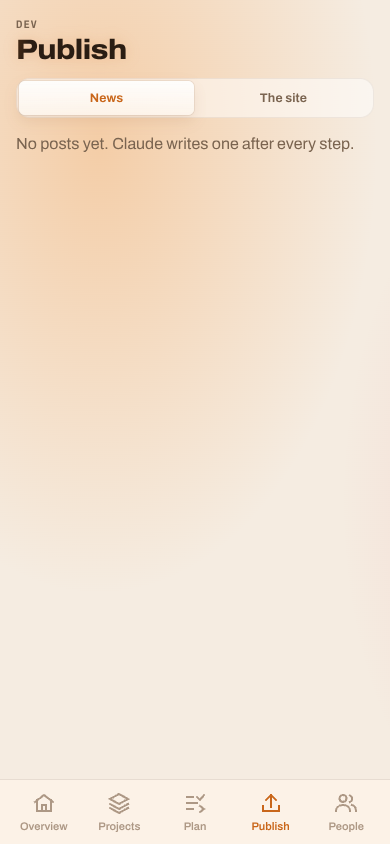
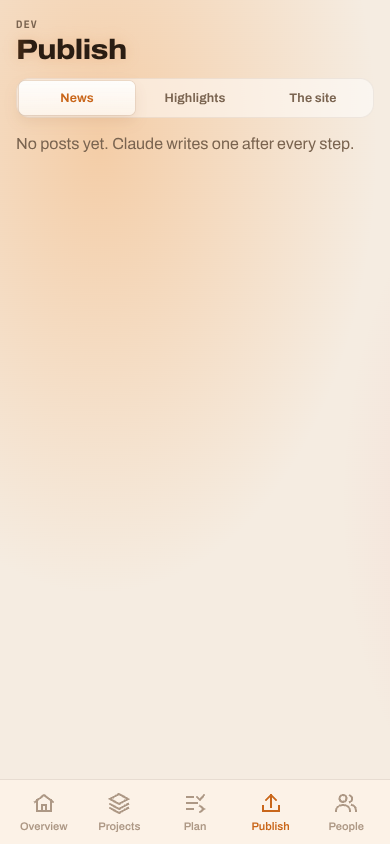
R5.2 Highlights in Dev → Publish: make one (a short title, one or two friendly lines, where a tap goes, one of the bar's pictures or your own photo, shrunk on the phone), see it as the front page will, Push to the front page (one at a time) or take it down, change, delete; public for the front page 

Changed region(s): [[0.3385, 0.0924, 0.5846, 0.154], [0.6769, 0.0924, 0.8615, 0.1232], [0.1538, 0.0924, 0.3077, 0.1232]]

diff --git a/README.md b/README.md
@@ -6,6 +6,14 @@ benchmarks by `tools/bench.mjs` (see `bench.jsonl`).
 
 Latest benchmark (2026-10-22 18:44, 922ec64): gi_triangles_full 642040 tris, gi_triangles 99105 tris, gi_load_ms 167 ms, gi_simplify_ms 28 ms, gi_bvh_ms 239 ms, gi_patches 58292, gi_probes_usable 10128, gi_build_ms 6666 ms, gi_rays_per_s 0.59 M/s, gi_solve4_ms 12.6 ms
 
+## R5.2 Highlights in Dev → Publish: make one (a short title, one or two friendly lines, where a tap goes, one of the bar's pictures or your own photo, shrunk on the phone), see it as the front page will, Push to the front page (one at a time) or take it down, change, delete; public for the front page (dev/api.php?highlight); the step finisher's news post takes plain friendly words (--news)
+
+`333967a` · 2026-10-24 07:33 · 8 files, +234 −14 · tests: quick, dev
+
+Phone check: Dev → Publish → Highlights: Make a highlight, type a title and a line, tap a picture: the preview shows it; Save, then Push to the front page
+
+![R5.2 page-dev-index-demo-publish.jpg](R5.2/page-dev-index-demo-publish.jpg)
+
 ## R5.1 The site in Ember: every page keeps its layout, boxes and reveal animations, now on the house theme's tokens: a three-colour glow drifting behind the page, frosted see-through boxes (cards, tiles, steps, news, sign-in), the amber main buttons, a light passing through the big titles (off when the phone asks for less motion); the plan test no longer depends on what's in Now
 
 `29cf0ac` · 2026-10-24 07:28 · 4 files, +53 −13 · tests: quick, site
